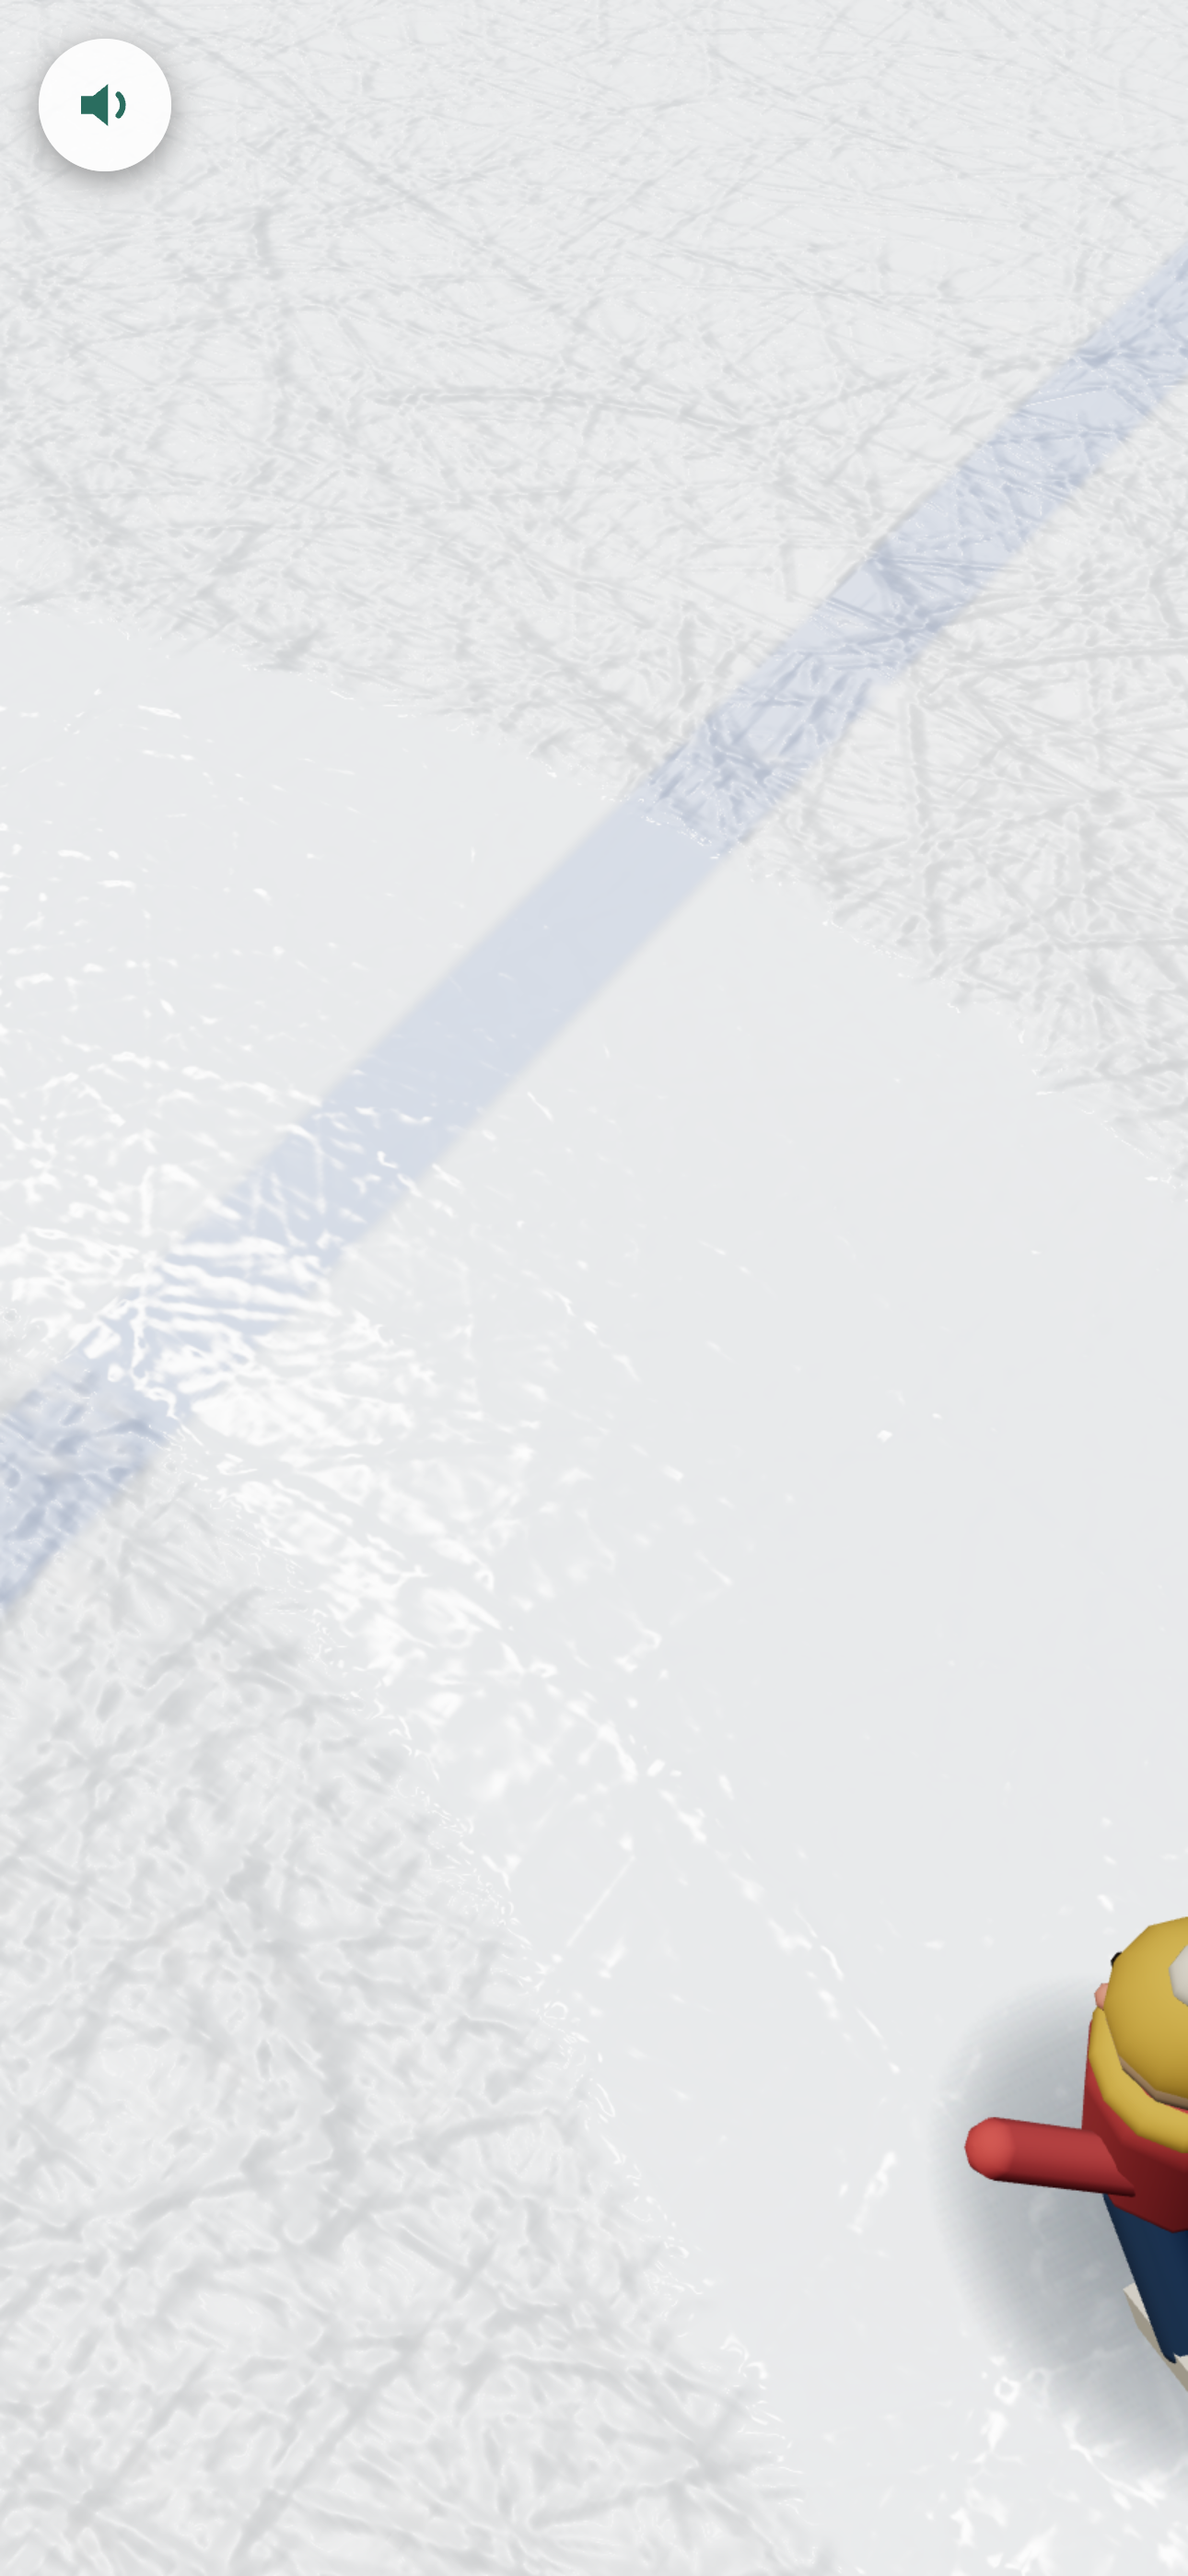
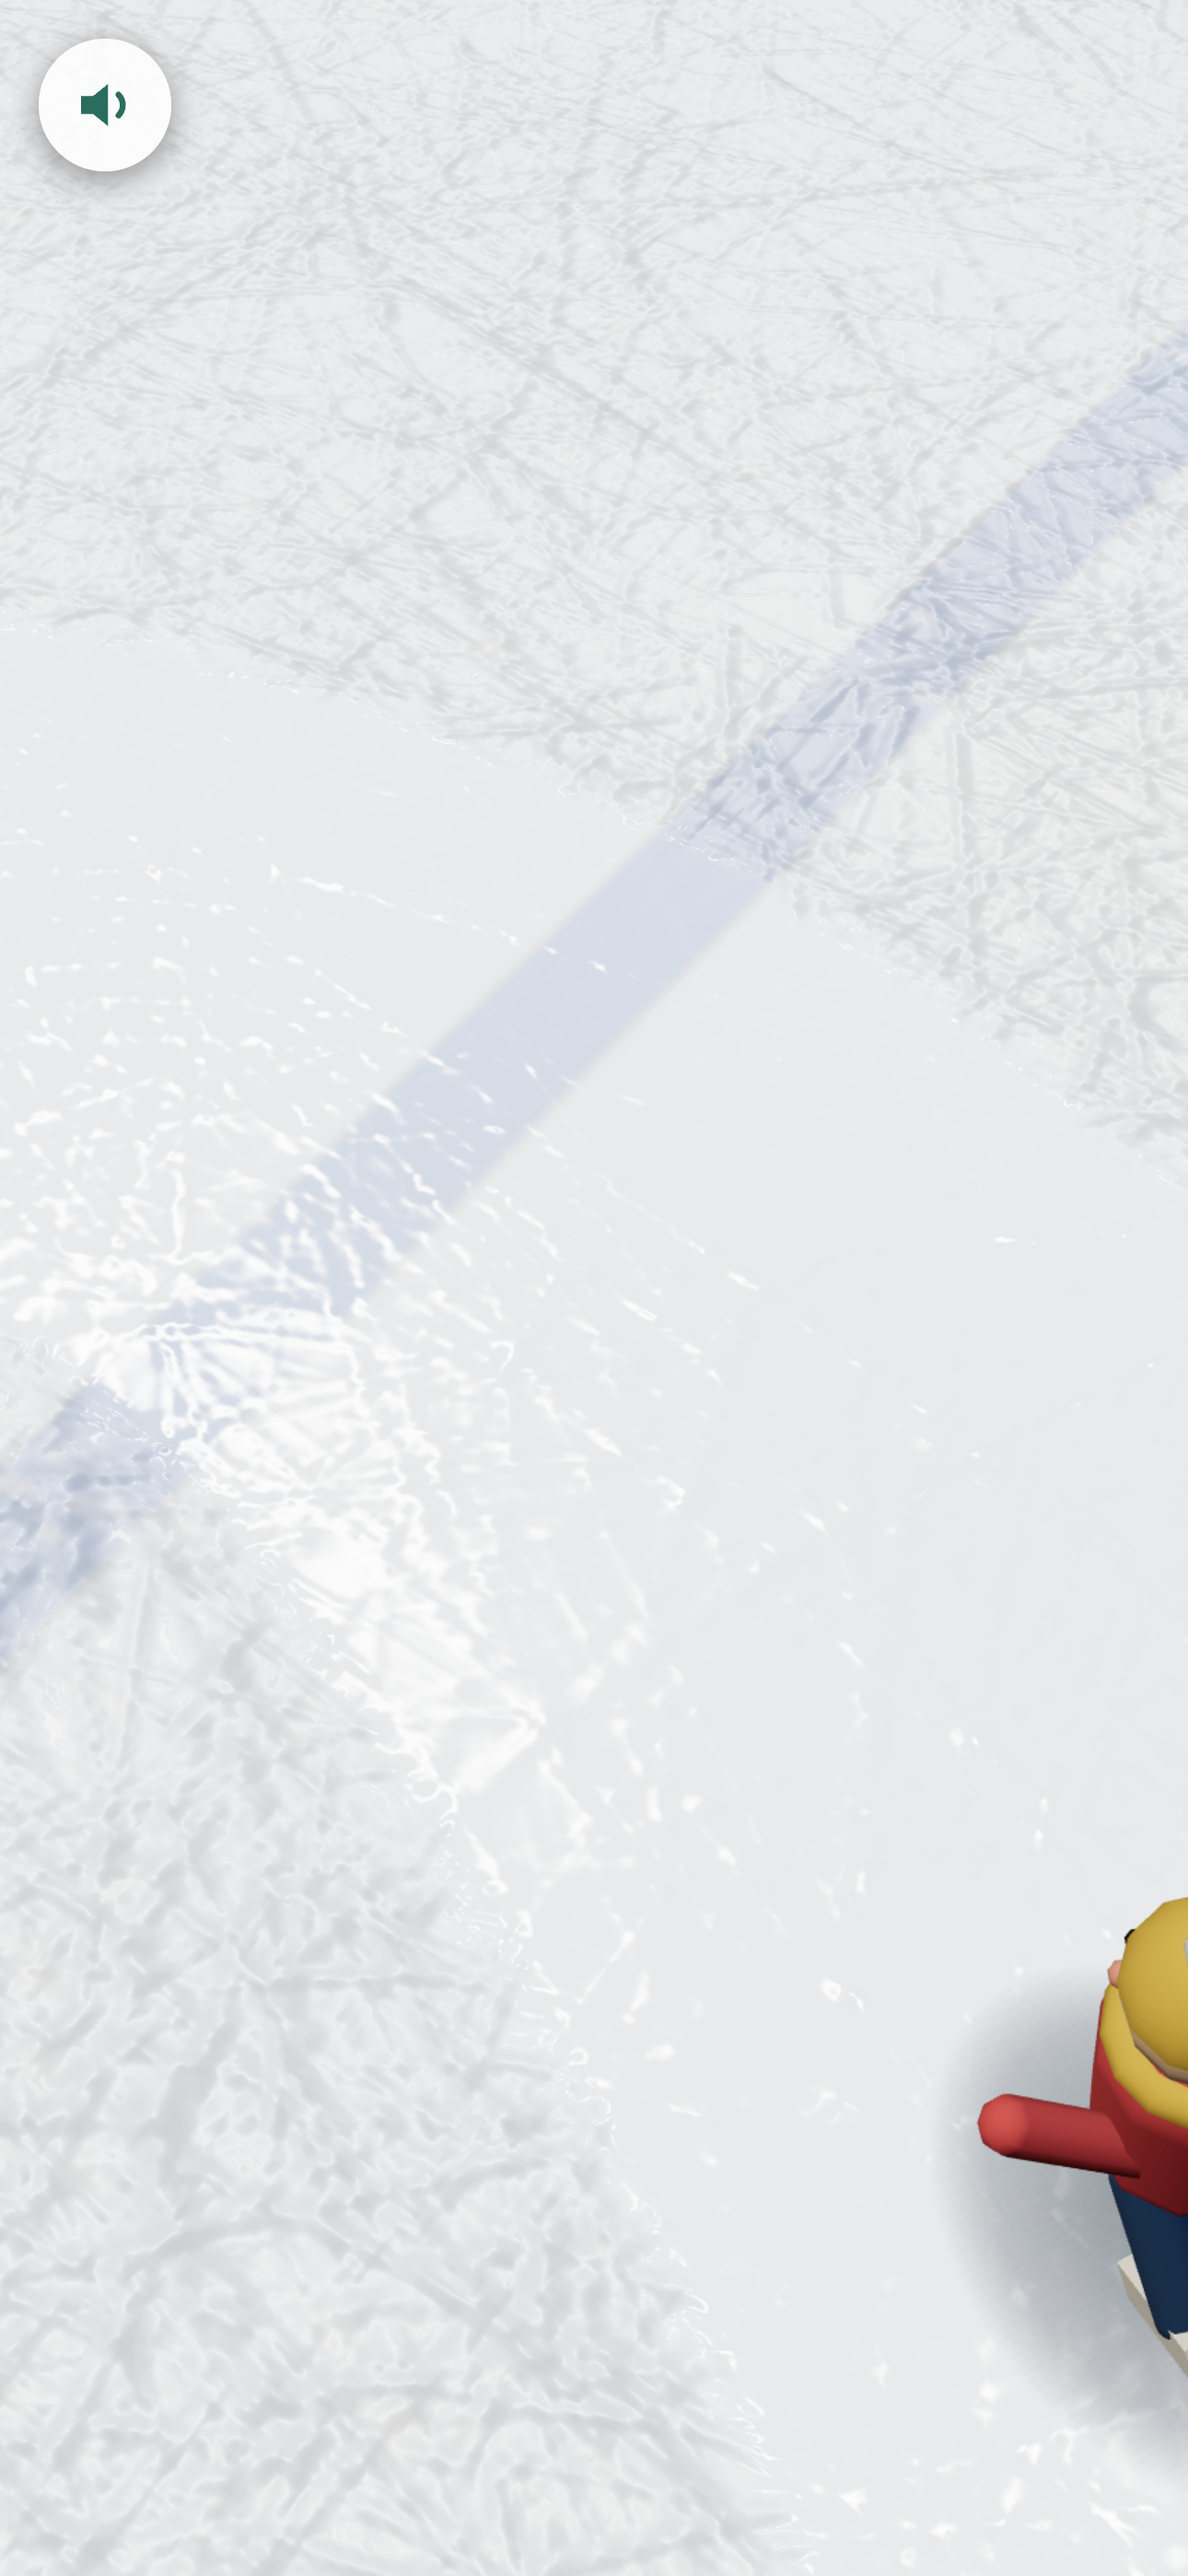
テストAPIに蓋開度を追加し、リビール撮影を開き切り待ちに
Claude-Session: https://claude.ai/code/session_013BM31eNDs4Rf4DdwNqoCaz

diff --git a/src/game.js b/src/game.js
@@ -635,7 +635,7 @@ export class Game {
       vehicle: () => ({
         x: this.veh.x, z: this.veh.z, heading: this.veh.heading,
         speed: this.veh.speed, steer: this.veh.steer,
-        conditioner: this.veh.conditionerT, driving: this.veh.driving,
+        conditioner: this.veh.conditionerT, driving: this.veh.driving, lid: this.veh.lidT,
         progress: this.veh.progress, snowFill: this.veh.snowFill
       }),
       conditionerEdges: () => this.veh.conditionerEdges(),
